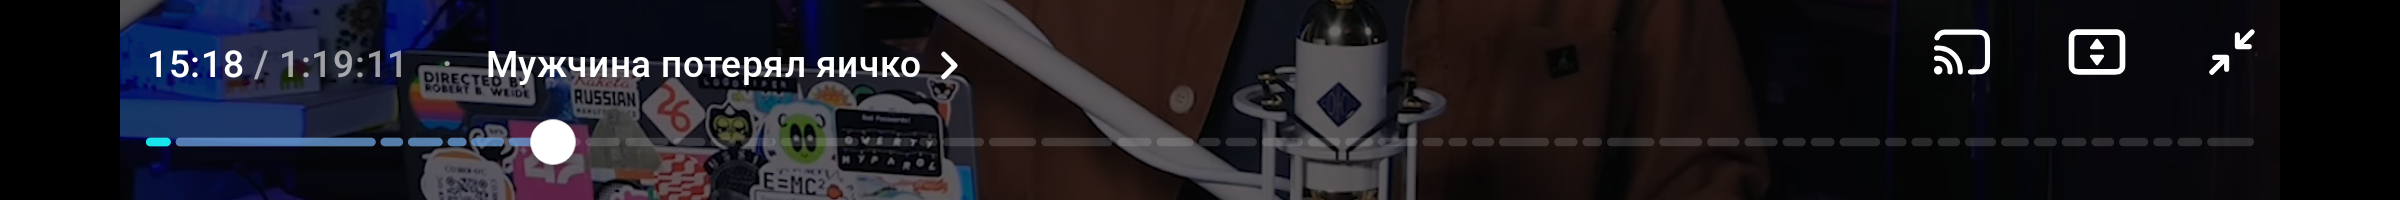
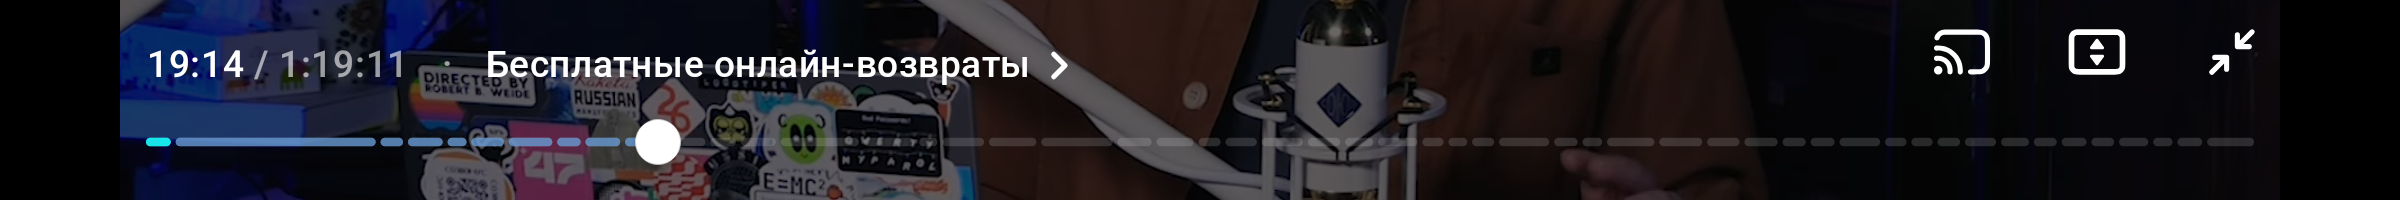
fix(sponsorskip): anchor on the bar top and treat a zero-height bar as unlaid
The seek view is taller than its track and the track sits at the top of
its frame, so the bar top plus the host gap is the stable anchor, not the
bar height. A bar that reports zero height now routes to the fixed lift
instead of the bar anchor, and the fixed lift matches the anchored
position so the button does not hop when the controls appear.

diff --git a/patches/src/test/kotlin/app/revanced/patches/vkvideo/sponsorskip/SponsorSkipPatchTest.kt b/patches/src/test/kotlin/app/revanced/patches/vkvideo/sponsorskip/SponsorSkipPatchTest.kt
@@ -201,7 +201,7 @@ class SponsorSkipPatchTest {
         assertTrue(place.contains("aget v15, v6, v4"), "the bar top is not read from the bar array")
         assertTrue(place.contains("aget v4, v7, v4"), "the parent top is not read from the parent array")
         assertTrue(place.contains("sub-int/2addr v15, v4"), "the parent origin is not subtracted")
-        assertTrue(place.contains("add-int v15, v15, v12"), "the bar height is not added to reach its bottom edge")
+        assertTrue(place.contains("sub-int/2addr v15, v4\n    if-lez v12, :zero_bar"), "the anchor is not the bar top in the parent frame")
         assertTrue(place.contains("sub-int/2addr v15, v6"), "the page anchor does not subtract the 8 dp gap")
         assertTrue(place.contains("sub-int v12, v15, v13"), "the anchor does not subtract the button height")
     }
@@ -253,11 +253,12 @@ class SponsorSkipPatchTest {
     @Test
     fun `an unlaid or missing bar falls back to the fixed offset`() {
         val place = placeBody()
-        assertTrue(place.contains("const/16 v5, 0x2c"), "the fallback offset does not clear the bar")
-        assertTrue(place.contains(":target_fallback\n    const/16 v5, 0x2c"), "the fallback is not the anchor form")
+        assertTrue(place.contains("const/16 v5, 0x1e"), "the fallback offset does not clear the bar")
+        assertTrue(place.contains(":target_fallback\n    const/16 v5, 0x1e"), "the fallback is not the anchor form")
         assertTrue(place.contains("sub-int v15, v11, v5"), "the fallback does not lift the surface bottom by the offset")
         assertTrue(place.contains("if-eqz v1, :no_bar"), "a missing container does not reach the fallback")
-        assertTrue(place.contains("if-lez v12, :bars_done"), "a zero bar height does not reach the fallback")
+        assertTrue(place.contains("if-lez v12, :zero_bar"), "a zero bar height does not reach the fallback")
+        assertTrue(place.contains(":zero_bar\n    const/4 v13, 0x2"), "the zero bar height is not the fallback form")
         assertTrue(place.contains(":no_bar\n    const/4 v13, 0x2"), "the missing bar is not the fallback form")
     }
 

diff --git a/patches/src/main/kotlin/app/revanced/patches/vkvideo/sponsorskip/InjectedClasses.kt b/patches/src/main/kotlin/app/revanced/patches/vkvideo/sponsorskip/InjectedClasses.kt
@@ -2433,8 +2433,10 @@ private fun skipButtonSmali(): String = """
         aget v15, v6, v4
         aget v4, v7, v4
         sub-int/2addr v15, v4
-        add-int v15, v15, v12
-        if-lez v12, :bars_done
+        if-lez v12, :zero_bar
+        goto :bars_done
+
+        :zero_bar
         const/4 v13, 0x2
         goto :bars_done
 
@@ -2466,7 +2468,6 @@ private fun skipButtonSmali(): String = """
         if-eqz v5, :target_page
         const/4 v4, 0x2
         if-ne v5, v4, :target_fallback
-        sub-int v15, v11, v12
         const/16 v5, 0xa
         invoke-static {v14, v5}, $SKIP_BUTTON_CLASS;->dp(Landroid/content/Context;I)I
         move-result v5
@@ -2478,7 +2479,7 @@ private fun skipButtonSmali(): String = """
         goto :target_done
 
         :target_fallback
-        const/16 v5, 0x2c
+        const/16 v5, 0x1e
         invoke-static {v14, v5}, $SKIP_BUTTON_CLASS;->dp(Landroid/content/Context;I)I
         move-result v5
         sub-int v15, v11, v5
